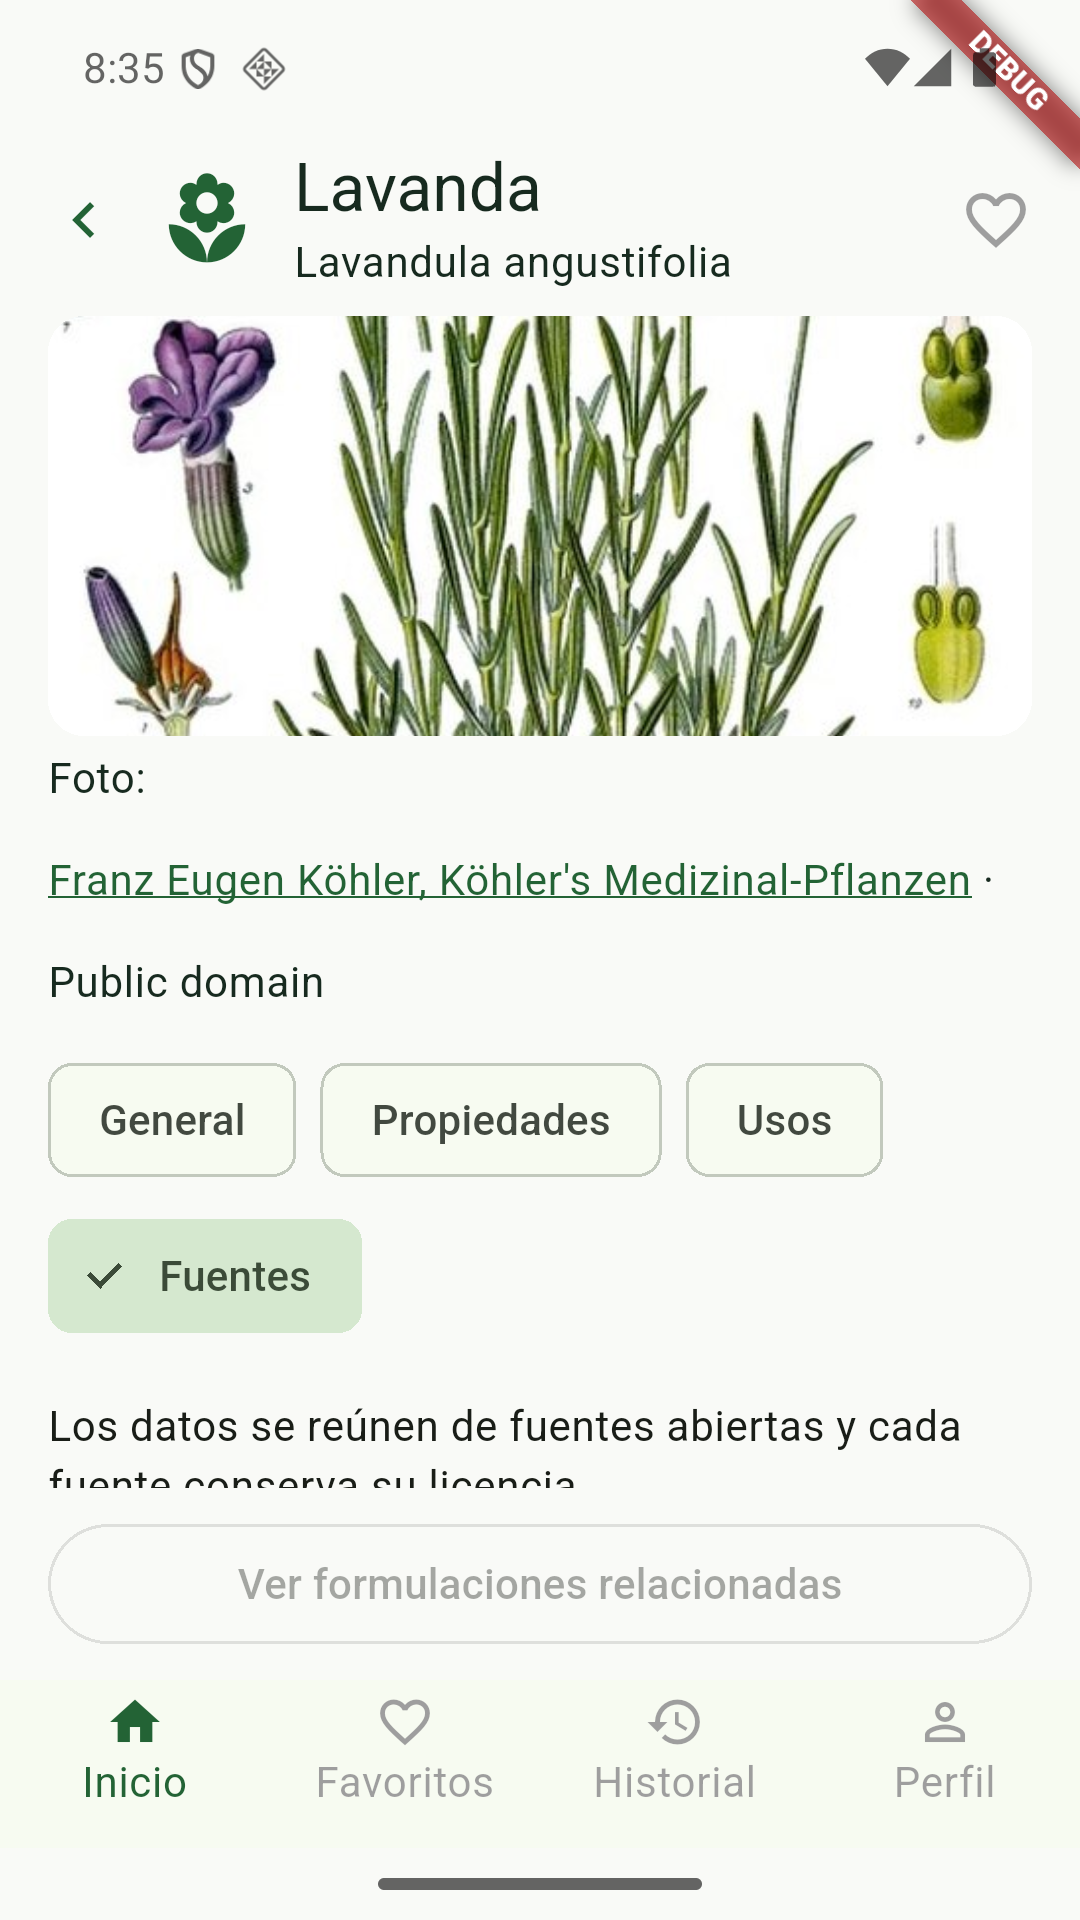
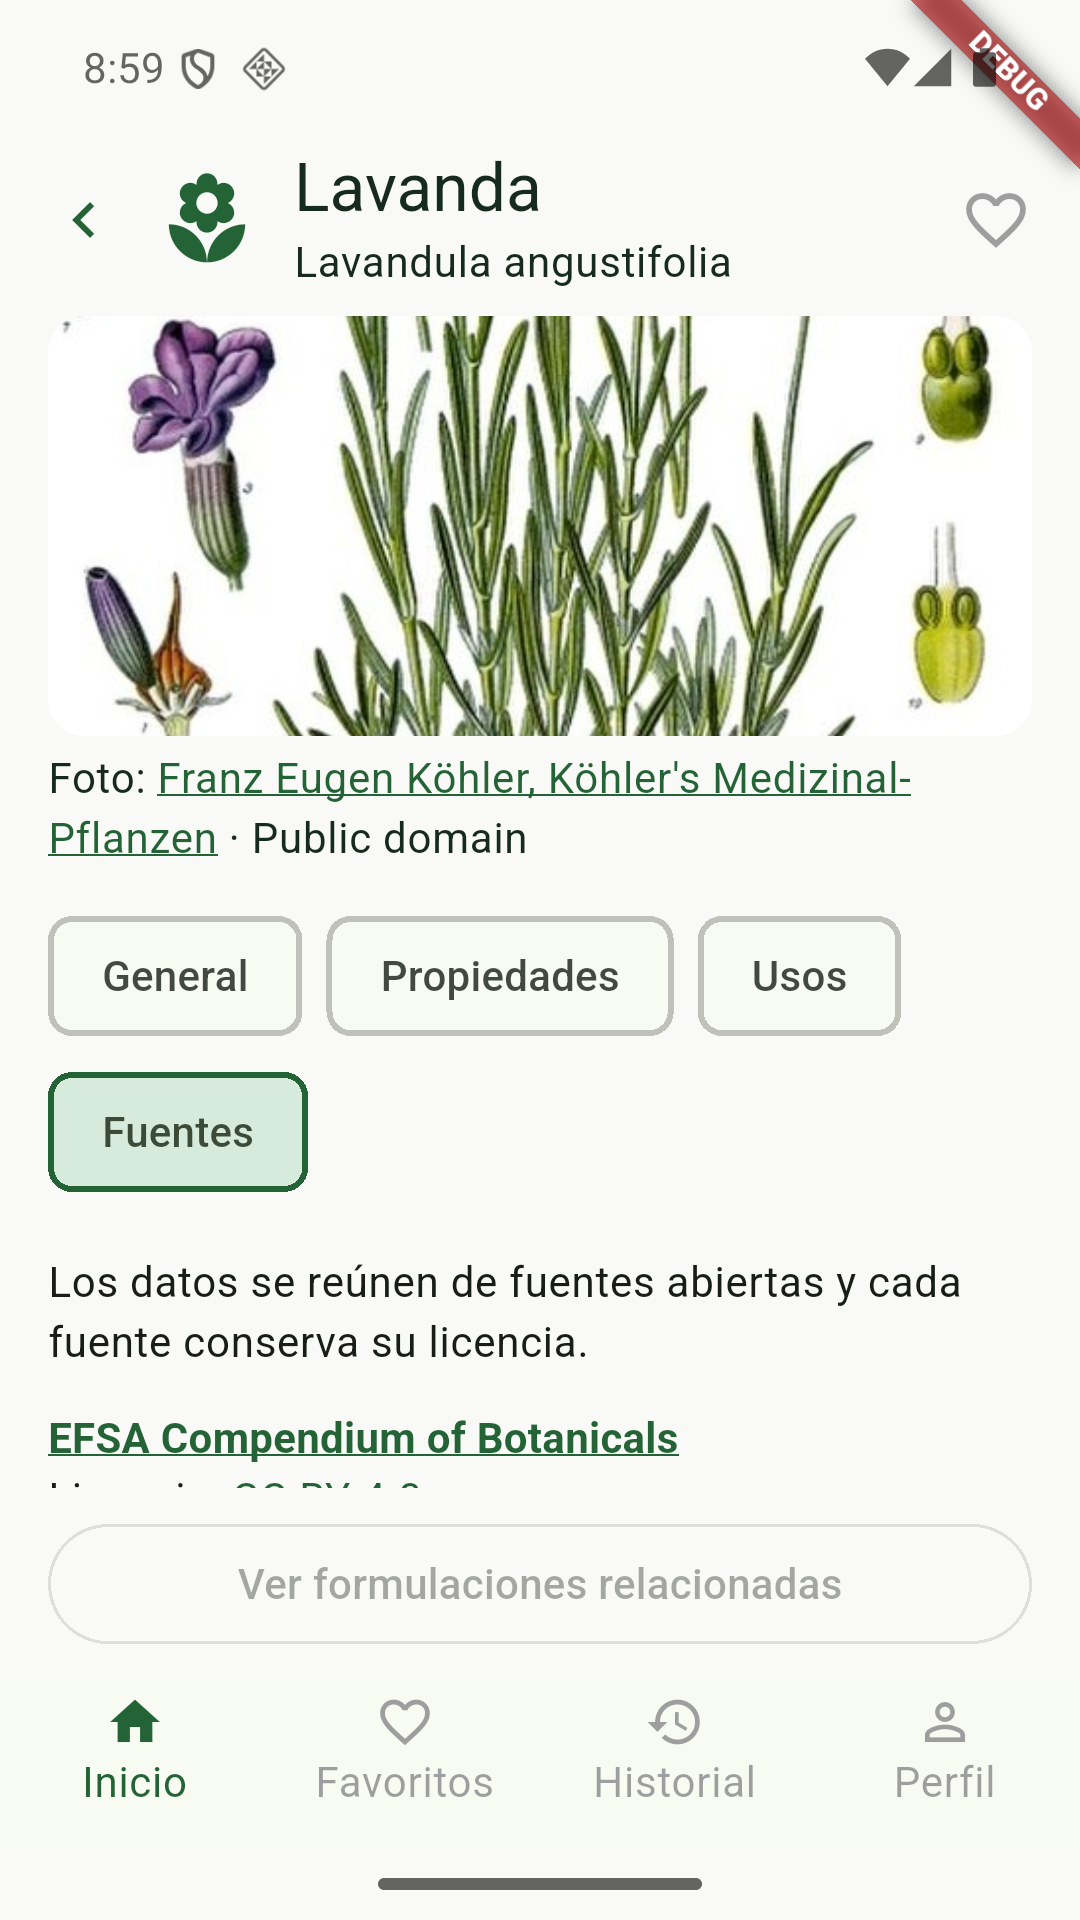
passport-sources-tab QA re-verification: compact photo footer, Fuentes entries and stable tabs confirmed on the emulator; DEF-01 closed, no new defects

diff --git a/openspec/changes/passport-sources-tab/qa/results.md b/openspec/changes/passport-sources-tab/qa/results.md
@@ -1,5 +1,7 @@
 # QA del cambio passport-sources-tab: resultados
 
+La primera ronda (commit `6e90e9b`) está abajo, hasta «Cómo repetir». La sección «Reverificación» al final recoge la segunda ronda sobre el commit `d9102f8`, que corrige el DEF-01; las capturas de `evidence/review/` y `evidence/smoke-output.txt` son las de esa segunda ronda.
+
 Entorno: API local nativa (binario `catalog-api` compilado con `--target-dir` en una carpeta auxiliar, sobre `data/build/catalog.db`, 2354 plantas), emulador `boticario_catalog_api36` (1080x1920, 420 dpi, Android 36), APK debug compilado con `API_TOKEN` aleatorio solo en la línea de comandos (`<token-app>`). No se usó el teléfono físico.
 
 ## Resumen
@@ -21,10 +23,10 @@ Sin defectos funcionales. Un defecto bajo de maquetación del pie de la foto y v
 | M8 | Pie de la foto de la lavanda: «Foto: [Franz Eugen Köhler, Köhler's Medizinal-Pflanzen] · Public domain», autor enlazado, licencia como texto (`licenseUrl` nula) | Imagen con atribución; licencia sin URL | Pasa en contenido; ver DEF-01 por la maquetación | `evidence/review/lav-general-top.png` |
 | M9 | Pie con dos enlaces (Quimbombó, `abelmoschus-esculentus`): «Foto: [Kristine Paulus from New York, United States] · [CC BY 2.0]», ambos subrayados; en el árbol de accesibilidad son enlaces con destino y aviso de pulsación larga | Imagen con licencia CC; Enlace en línea accesible | Pasa en contenido; ver DEF-01 | `evidence/review/footer-two-links-quimbombo.png` |
 | M10 | Autor desconocido (`actaea-cimicifuga`): «Foto: [Wikimedia Commons] · Public domain», enlace a `commons.wikimedia.org` (`dat=https://commons.wikimedia.org/...`); en `Fuentes`, «Autor: No disponible en fuente» y «Archivo en Wikimedia Commons» | Autor desconocido; Imagen sin autor | Pasa | `evidence/review/wikimedia-commons-footer.png`, `commons-fuentes-image-entry.png` |
-| M11 | Planta con muy pocos datos (`aeolanthus-myriantha`: un crédito y sin imagen): sin pie ni imagen, `Fuentes` con la intro y una entrada con nombre y licencia enlazados | Sin imagen; Pestaña Fuentes | Pasa | `evidence/review/min-data-aeolanthus-general.png`, `min-data-aeolanthus-fuentes.png` |
+| M11 | Planta con muy pocos datos (`aeolanthus-myriantha`: un crédito y sin imagen): sin pie ni imagen, `Fuentes` con la intro y una entrada con nombre y licencia enlazados | Sin imagen; Pestaña Fuentes | Pasa | (captura de la primera ronda retirada) |
 | M12 | Planta sin créditos ni imagen | Sin créditos | No ejecutado: no existe. En la base, el mínimo es un crédito (219 plantas con un crédito y sin imagen). El estado vacío queda cubierto solo por las pruebas de widget | n/a |
 | M13 | Cambio entre pestañas al 100 %: de `Usos` (larga, hasta el final) a `Fuentes`, con las pestañas visibles al volver a subir y el contenido de `Fuentes` alcanzable sin hoja en blanco | DEF-01 del cambio 2 con cuatro pestañas | Pasa | `evidence/review/usos-to-fuentes.png` |
-| M14 | Texto al 200 %: lavanda con las cuatro pestañas en un `Wrap` de dos o tres filas, sin truncado ni desbordes, cada pestaña con 165 px (63 dp) de alto, recorridas en ambos sentidos; `Fuentes` y su final alcanzables; de `Usos` a `Fuentes` las pestañas siguen visibles | Accesibilidad con texto aumentado | Pasa | `evidence/review/lav-200-footer-and-tabs.png`, `lav-200-propiedades.png`, `lav-200-usos.png`, `lav-200-fuentes.png`, `lav-200-fuentes-mid.png`, `lav-200-fuentes-final.png`, `lav-200-usos-end.png`, `lav-200-usos-to-fuentes.png` |
+| M14 | Texto al 200 %: lavanda con las cuatro pestañas en un `Wrap` de dos o tres filas, sin truncado ni desbordes, cada pestaña con 165 px (63 dp) de alto, recorridas en ambos sentidos; `Fuentes` y su final alcanzables; de `Usos` a `Fuentes` las pestañas siguen visibles | Accesibilidad con texto aumentado | Pasa | (capturas de la primera ronda reemplazadas por las de la reverificación) |
 
 ## Defectos
 
@@ -69,3 +71,44 @@ Sin defectos funcionales. Un defecto bajo de maquetación del pie de la foto y v
 Compilar la API con `cargo build --release --manifest-path backend/Cargo.toml -p catalog-api --target-dir <carpeta-auxiliar>` y arrancarla con `API_TOKENS=<token-app>` sobre `data/build/catalog.db`. Desde `app/`: `flutter test integration_test/app_test.dart -d emulator-5554 --dart-define=API_TOKEN=<token-app>`. Para el recorrido a mano, `flutter build apk --debug --dart-define=API_TOKEN=<token-app>`, instalar con `adb install -r` y navegar con `adb shell input`. Al terminar: `adb shell settings put system font_scale 1.0`.
 
 No se instaló ninguna herramienta ni dependencia. No se delegó en el Junior-Worker.
+
+## Reverificación (commit d9102f8)
+
+Mismo entorno que la primera ronda: API local nativa con un token aleatorio nuevo (`<token-app>`), emulador `boticario_catalog_api36`, APK debug recompilado desde `d9102f8`.
+
+| ID | Caso | Resultado | Evidencia |
+|---|---|---|---|
+| R-S1 | Smoke `flutter test integration_test/app_test.dart` en el emulador | Pasa: `All tests passed!` (+1), 40 s de prueba | `evidence/smoke-output.txt` |
+| R-M8 | Pie de la lavanda al 100 %: un solo texto corrido «Foto: [autor] · Public domain» de 2 líneas (el autor, largo, ocupa la primera y parte de la segunda); sin «Foto:» suelto ni «·» huérfano; el autor se abre (`dat=https://commons.wikimedia.org/...`) | Pasa | `evidence/review/lav-general-top.png` |
+| R-M9 | Pie de Quimbombó al 100 %: «Foto: [Kristine Paulus from New York, United States]» y en la segunda línea «· [CC BY 2.0]», ambos enlaces se abren (`creativecommons.org` y `commons.wikimedia.org`). Al 200 %: tres líneas de texto corrido, con el « ·» al final de la segunda; sin «Foto:» suelto | Pasa | `evidence/review/footer-two-links-quimbombo.png`, `quimbombo-200-footer-and-tabs.png` |
+| R-M10 | Autor desconocido (`actaea-cimicifuga`): «Foto: [Wikimedia Commons] · Public domain» en una línea, el enlace se abre | Pasa | `evidence/review/wikimedia-commons-footer.png` |
+| R-M13 | Del final de `Usos` a `Fuentes` al 100 %: las pestañas siguen visibles y el contenido de `Fuentes` empieza bajo ellas | Pasa | `evidence/review/usos-to-fuentes.png` |
+| R-M14 | Lavanda al 200 %: pie de tres líneas sin truncar, cuatro pestañas en dos filas, `Fuentes` y su final alcanzables, y de `Usos` a `Fuentes` las pestañas siguen visibles | Pasa | `evidence/review/lav-200-footer-and-tabs.png`, `lav-200-fuentes.png`, `lav-200-fuentes-mid.png`, `lav-200-fuentes-final.png`, `lav-200-usos-to-fuentes.png` |
+| R-F1 | `Fuentes` de la lavanda al 100 %: entradas compactas (nombre, «Licencia: …» y atribución consecutivos, sin las bandas vacías de 48 dp de la primera ronda); en `lav-fuentes-2.png` caben cuatro créditos en una pantalla | Pasa | `evidence/review/lav-fuentes-1.png`, `lav-fuentes-2.png`, `lav-fuentes-final.png` |
+| R-F2 | Toque en el nombre «Wikipedia en español» y en «CC BY-SA 4.0»: abre Chrome con `https://es.wikipedia.org/...` y `https://creativecommons.org/...` | Pasa | logcat (sin guardar) |
+| R-F3 | Pulsación larga sobre «Wikipedia en español»: aviso «Enlace copiado», portapapeles con la URL, no se abre el navegador (0 `START`, foco en la app) | Pasa | `evidence/review/longpress-copied.png` |
+| R-F4 | Con Chrome deshabilitado (y luego reactivado): «No se pudo abrir el enlace», pantalla usable | Pasa | `evidence/review/open-failed-snackbar.png` |
+| R-T1 | Pestañas al 100 %: recorrí `General`, `Propiedades`, `Usos`, `Fuentes` y de vuelta; los límites de los cuatro chips no cambian ni un píxel entre toques (General 48,904 a 303,1048; Propiedades 327,904 a 674,1048; Usos 698,904 a 901,1048; Fuentes 48,1060 a 308,1204) | Pasa | volcados de `uiautomator` (sin guardar) |
+| R-T2 | Pestañas al 200 %: el mismo recorrido; límites fijos (General 48,273 a 406,444; Propiedades 430,273 a 958,444; Usos 48,456 a 312,627; Fuentes 336,456 a 704,627), la altura de cada chip es de 171 px (65 dp) | Pasa | volcados de `uiautomator` (sin guardar), `evidence/review/lav-200-footer-and-tabs.png` |
+| R-T3 | Se distingue la pestaña activa: borde verde de 2 dp con relleno verde claro, las demás con borde gris; sin marca de verificación. En `uiautomator`, `selected="true"` solo en la activa en cada selección, tanto al 100 % como al 200 % | Pasa | `evidence/review/lav-general-top.png`, `lav-200-fuentes.png` |
+| R-A1 | Árbol de accesibilidad de los enlaces (`uiautomator`): etiqueta «texto. Abre [destino]» sin la frase de pulsación larga, que ya no se anuncia | Pasa | volcados (sin guardar) |
+| R-A2 | Ninguna URL como texto: en las capturas de `Fuentes`, del pie y de la lista de la reverificación no se ve ninguna URL ni DOI. No repetí el volcado completo con búsqueda de `http` de la primera ronda | Pasa (visual) | capturas de `evidence/review/` |
+
+### DEF-01: cerrado
+
+El pie ya no se parte en filas independientes: la lavanda ocupa 2 líneas al 100 % y Quimbombó 2 líneas, con el « · » unido a la licencia. No quedan «Foto:» aislados ni separadores huérfanos. La observación de las pestañas que se movían al seleccionarlas también queda cerrada (R-T1 a R-T3).
+
+### Defectos nuevos
+
+Ninguno.
+
+### Observaciones de la reverificación
+
+- Con textos largos, el « · » puede quedar al principio de una línea (Quimbombó al 100 %: «· CC BY 2.0») o al final de otra (Quimbombó al 200 %), siempre pegado a la licencia o al autor. Es el comportamiento normal de un texto corrido y no se considera defecto.
+- Las áreas de toque de los enlaces en línea son ahora de la altura del texto (unos 30 dp en las filas de `Fuentes`, sobre 78 px), por la excepción de WCAG 2.5.8 que documentan el delta y D8. En el emulador los toques en el texto abrieron el enlace sin fallos; no se midió con un dedo real.
+- El botón fijo «Ver formulaciones relacionadas» y la barra 2x2 a 200 % siguen tapando el inicio de `Fuentes` hasta desplazar (diseño previo).
+- Retiré de `evidence/review/` las capturas de la primera ronda que mostraban la interfaz anterior (pestañas con marca, pie de tres filas, entradas con bandas) y que ya no representan el producto: `lav-200-general-top`, `lav-200-propiedades`, `lav-200-usos`, `lav-200-usos-end`, `min-data-aeolanthus-general`, `min-data-aeolanthus-fuentes` y `commons-fuentes-image-entry`. Los casos M10 y M11 de la primera ronda se revalidaron con el producto anterior; M11 (planta con pocos datos) no se repitió con la corrección.
+
+### Cobertura de la reverificación
+
+No se repitió M11 (planta con un crédito y sin imagen), ni la copia por pulsación larga al 200 %, ni TalkBack real. Limpieza: API detenida, emulador apagado, app desinstalada, `font_scale` en 1.0, `app-debug.apk` y `app-debug.apk.sha1` borrados.
